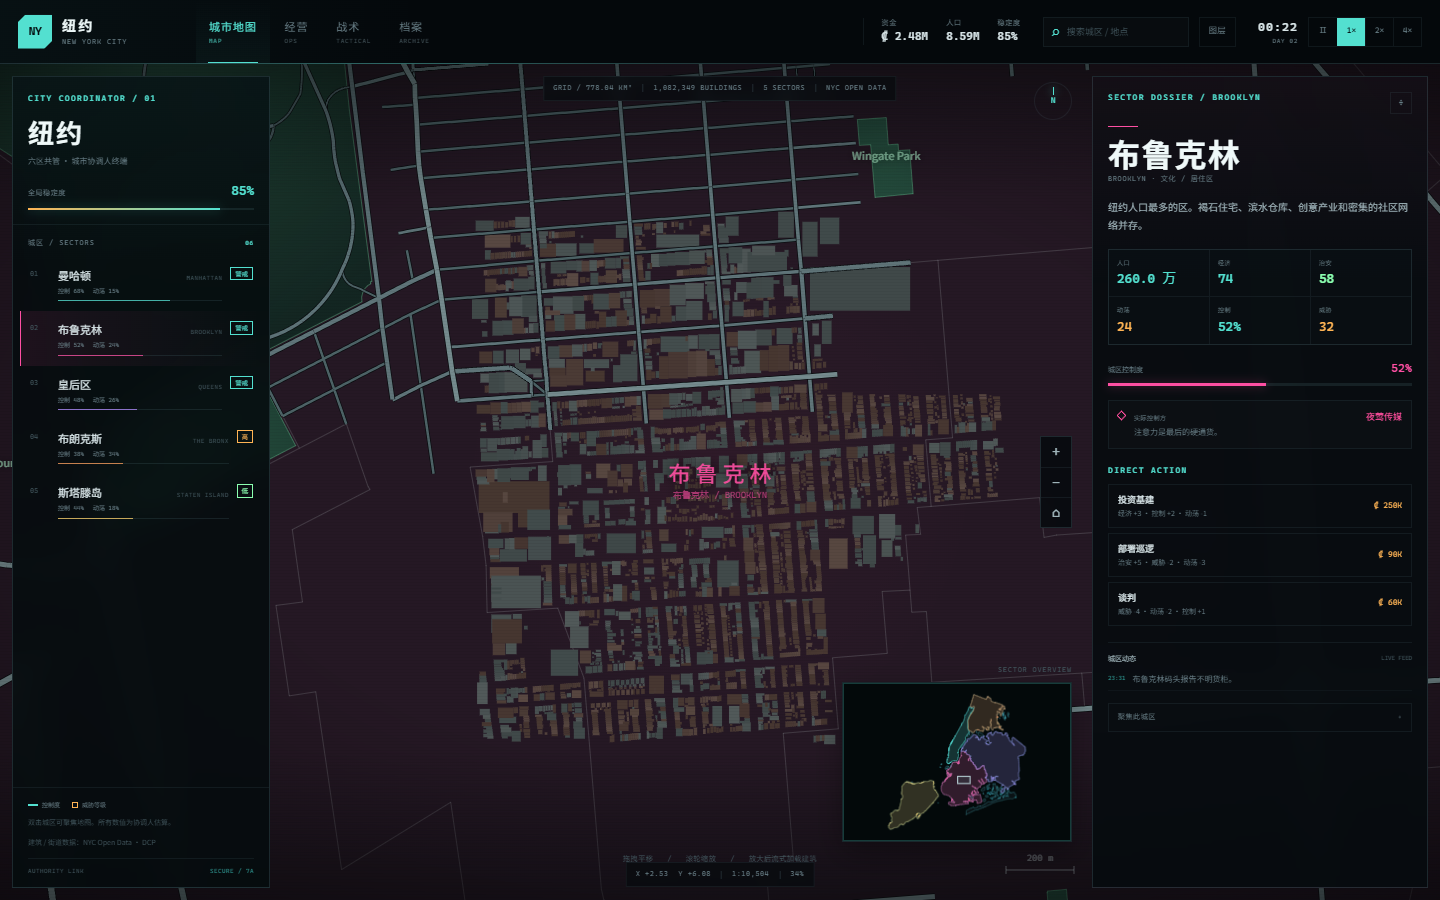
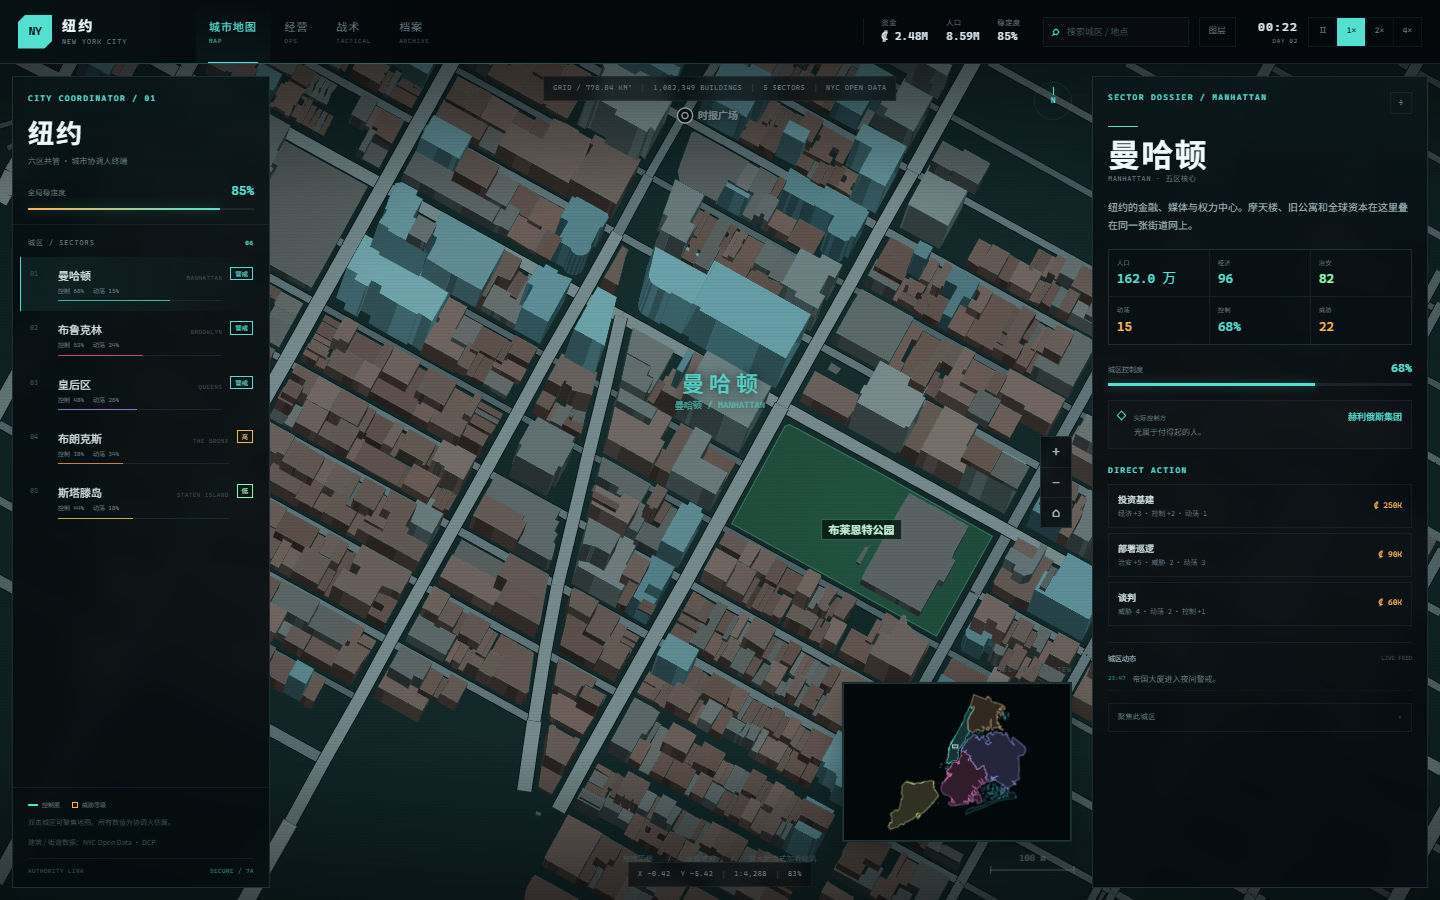
Upload park localization and perf source

diff --git a/src/map/renderer.js b/src/map/renderer.js
@@ -294,7 +294,7 @@ function drawRivers(ctx, camera, width, height, data) {
 }
 
 function drawCommunities(ctx, camera, width, height, data, scale, fast = false) {
-  if (fast || scale < 0.09 || !data.communities) return
+  if (fast || scale < 0.9 || !data.communities) return
   ctx.save()
   for (const community of data.communities) {
     ctx.beginPath()
@@ -324,11 +324,53 @@ function drawCommunities(ctx, camera, width, height, data, scale, fast = false) 
   ctx.restore()
 }
 
+const PARK_NAME_ZH = {
+  'Central Park': '中央公园', 'Bryant Park': '布莱恩特公园', 'Prospect Park': '展望公园',
+  'Wingate Park': '温盖特公园', 'Pelham Bay Park': '佩勒姆湾公园', 'Freshkills Park': '弗雷什基尔斯公园',
+  'Marine Park': '海洋公园', 'Bronx Park': '布朗克斯公园', 'Van Cortlandt Park': '范科特兰公园',
+  'Alley Pond Park': '巷塘公园', 'Ferry Point Park': '渡口角公园', 'Willowbrook Park': '威洛布鲁克公园',
+  'Silver Lake Park': '银湖公园', 'Franklin D. Roosevelt Boardwalk and Beach': '罗斯福海滨步道',
+  'Great Kills Park': '大基尔斯公园', 'Dyker Beach Park': '戴克海滩公园', 'Inwood Hill Park': '因伍德山公园',
+  'Coney Island Beach & Boardwalk': '康尼岛海滩与步道', 'Soundview Park': '桑德维尤公园',
+  'Clove Lakes Park': '克洛夫湖公园', 'Conference House Park': '会议大厦公园',
+  'Rockaway Beach and Boardwalk': '洛克威海滩与步道', 'Forest Park': '森林公园', 'Highland Park': '高地公园',
+  "Randall's Island Park": '兰德尔岛公园', 'Flushing Meadows Corona Park': '法拉盛草原可乐娜公园',
+  'Astoria Park': '阿斯托利亚公园', 'Battery Park': '炮台公园', 'Washington Square Park': '华盛顿广场公园',
+  'Tompkins Square Park': '汤普金斯广场公园', 'Madison Square Park': '麦迪逊广场公园',
+  'Union Square Park': '联合广场公园', 'Hudson River Park': '哈德逊河公园',
+  'Brooklyn Bridge Park': '布鲁克林大桥公园', 'Governors Island': '总督岛', 'Liberty Island': '自由岛',
+  'Ellis Island': '埃利斯岛', 'The High Line': '高线公园', 'Riverside Park': '河滨公园',
+  'Morningside Park': '晨边公园', 'St. Nicholas Park': '圣尼古拉斯公园', 'Marcus Garvey Park': '马库斯加维公园',
+  'Sara D. Roosevelt Park': '萨拉罗斯福公园', 'City Hall Park': '市政厅公园', 'Collect Pond Park': '收集池公园',
+  'Bowling Green': '鲍灵格林', 'Cadman Plaza Park': '卡德曼广场公园', 'Fort Greene Park': '格林堡公园',
+  'McCarren Park': '麦卡伦公园', 'McKinley Park': '麦金利公园', 'Sunset Park': '日落公园',
+  'Green-Wood Cemetery': '绿荫公墓', 'Calvary Cemetery': '各各他公墓', 'Holy Cross Cemetery': '圣十字公墓',
+  'Woodlawn Cemetery': '伍德劳恩公墓', 'Forest Hills Gardens': '森林小丘花园',
+}
+
+const PARK_WORD_ZH = [
+  ['Golf Course', '高尔夫球场'], ['Playground', '游乐场'], ['Boardwalk', '步道'], ['Cemetery', '公墓'],
+  ['Gardens', '花园'], ['Garden', '花园'], ['Triangle', '三角绿地'], ['Meadow', '草甸'], ['Fields', '运动场'],
+  ['Field', '运动场'], ['Beach', '海滩'], ['Plaza', '广场'], ['Square', '广场'], ['Parkway', '公园道'],
+  ['Park', '公园'], ['Green', '绿地'], ['Point', '角'], ['Island', '岛'], ['River', '河'], ['Lake', '湖'],
+  ['Pond', '池塘'], ['Woods', '林地'], ['Marsh', '湿地'],
+]
+
+function localizeParkName(name) {
+  if (!name) return '公园'
+  if (PARK_NAME_ZH[name]) return PARK_NAME_ZH[name]
+  let result = name
+  for (const [en, zh] of PARK_WORD_ZH) result = result.replaceAll(en, zh)
+  result = result.replace(/[A-Za-z]/g, '').replace(/[&,.'’]/g, '').replace(/\s+/g, ' ').trim()
+  if (!result) return '公园'
+  return result.replace(/公园公园/g, '公园')
+}
+
 function drawParks(ctx, camera, width, height, data, fast = false) {
   const scale = camera.scale
   for (const park of data.parks) {
     if (fast && (park.area || 0) < 50000) continue
-    if (scale < 0.5 && (park.area || 0) < 12000) continue
+    if (scale < 1.2 && (park.area || 0) < 12000) continue
     ctx.save()
     ctx.beginPath()
     tracePolygon(ctx, camera, width, height, park.poly)
@@ -445,17 +487,39 @@ function drawParks(ctx, camera, width, height, data, fast = false) {
       }
     }
 
-    if (scale > 0.16 && park.id !== 'reservoir') {
-      const p = worldToScreen(camera, width, height, park.centroid[0], park.centroid[1])
-      ctx.font = '500 11px "Noto Sans SC", "Microsoft YaHei", sans-serif'
-      ctx.textAlign = 'center'
-      ctx.fillStyle = 'rgba(168, 232, 196, 0.72)'
-      ctx.shadowColor = 'rgba(0, 0, 0, 0.8)'
-      ctx.shadowBlur = 8
-      ctx.fillText(park.name, p.x, p.y)
-    }
     ctx.restore()
   }
+}
+
+function drawParkLabels(ctx, camera, width, height, data, scale) {
+  if (scale < 0.32) return
+  const parks = []
+  for (const park of data.parks) {
+    if ((park.area || 0) < 3000) continue
+    const p = worldToScreen(camera, width, height, park.centroid[0], park.centroid[1])
+    if (p.x < 40 || p.x > width - 40 || p.y < 20 || p.y > height - 20) continue
+    parks.push({ park, p })
+  }
+  parks.sort((a, b) => (b.park.area || 0) - (a.park.area || 0))
+  ctx.save()
+  ctx.textAlign = 'center'
+  ctx.textBaseline = 'middle'
+  for (const { park, p } of parks.slice(0, 20)) {
+    const label = localizeParkName(park.name)
+    if (!label) continue
+    ctx.font = '600 11px "Noto Sans SC", "Microsoft YaHei", sans-serif'
+    const metrics = ctx.measureText(label)
+    const w = metrics.width + 14
+    const h = 20
+    ctx.fillStyle = 'rgba(4, 20, 14, 0.78)'
+    ctx.fillRect(p.x - w / 2, p.y - h / 2, w, h)
+    ctx.strokeStyle = 'rgba(120, 210, 160, 0.34)'
+    ctx.lineWidth = 0.8
+    ctx.strokeRect(p.x - w / 2, p.y - h / 2, w, h)
+    ctx.fillStyle = '#c8f2d8'
+    ctx.fillText(label, p.x, p.y)
+  }
+  ctx.restore()
 }
 
 
@@ -1002,14 +1066,14 @@ function drawBuildings(ctx, camera, width, height, data, scale, hoveredId, pass 
   const bounds = cameraBounds(camera, width, height)
   const buildings = precomputed || getVisibleBuildings(data, bounds)
   const detailed = scale > 0.34
-  const extruded = scale > 0.46
-  const veryDetailed = scale > 1.05
+  const extruded = scale > 1.1
+  const veryDetailed = scale > 1.45
   const ordered = buildings
   const districtColors = new Map(data.districts.map((district) => [district.id, district.color]))
 
   // Ground shadows. Keeping these in a separate pass makes the city read as a
   // collection of volumes instead of a flat colour field.
-  if (detailed && pass !== 'body' && scale > 0.55) {
+  if (detailed && pass !== 'body' && scale > 1.1) {
     ctx.save()
     for (const b of buildings) {
       if (b.height < 10) continue
@@ -1068,7 +1132,7 @@ function drawBuildings(ctx, camera, width, height, data, scale, hoveredId, pass 
     const accent = districtColors.get(b.district) || '#53e0d0'
 
     if (b.points) {
-      if (pass === 'shadows' || scale < 0.55 || (fast && scale < 0.75)) {
+      if (pass === 'shadows' || scale < 0.9 || fast) {
         const [minX, minY, maxX, maxY] = b.bbox
         const a = worldToScreen(camera, width, height, minX, minY)
         const c = worldToScreen(camera, width, height, maxX, maxY)
@@ -1682,7 +1746,7 @@ export function drawMap(ctx, data, camera, width, height, options = {}) {
   ctx.fillRect(0, 0, width, height)
 
   drawLand(ctx, camera, width, height, data)
-  if (options.grid !== false && scale > 0.5) {
+  if (options.grid !== false && scale > 1.6) {
     for (const district of data.districts) {
       ctx.save()
       ctx.beginPath()
@@ -1706,7 +1770,7 @@ export function drawMap(ctx, data, camera, width, height, options = {}) {
     if (options.districts !== false) drawDistrictOutlines(ctx, camera, width, height, data, options.selectedDistrict)
   } else {
     if (hasBlocks) drawBlockGround(ctx, camera, width, height, data)
-    if (scale < 0.55) {
+    if (scale < 0.9) {
       drawBuildings(ctx, camera, width, height, data, scale, options.hoveredBuilding, 'body', visibleBuildings, options.fast)
       drawRoads(ctx, camera, width, height, data, scale, options.fast)
     } else {
@@ -1719,6 +1783,7 @@ export function drawMap(ctx, data, camera, width, height, options = {}) {
     }
   }
 
+  drawParkLabels(ctx, camera, width, height, data, scale)
   drawRamps(ctx, camera, width, height, data, scale)
   drawExpressways(ctx, camera, width, height, data, scale)
   drawBridges(ctx, camera, width, height, data, scale)

diff --git a/src/map/MapCanvas.jsx b/src/map/MapCanvas.jsx
@@ -201,7 +201,7 @@ const MapCanvas = forwardRef(function MapCanvas(
     if (!wrap || !canvas || !mini) return
     const resize = () => {
       const rect = wrap.getBoundingClientRect()
-      const dpr = Math.min(window.devicePixelRatio || 1, 1.5)
+      const dpr = Math.min(window.devicePixelRatio || 1, 1.25)
       const width = Math.max(1, rect.width)
       const height = Math.max(1, rect.height)
       sizeRef.current = { width, height, dpr }
@@ -306,7 +306,7 @@ const MapCanvas = forwardRef(function MapCanvas(
           }
         }
         candidates.sort((a, b) => a.distance - b.distance)
-        for (const candidate of candidates.slice(0, 8)) {
+        for (const candidate of candidates.slice(0, 4)) {
           streamRef.current.loading.add(candidate.key)
           fetchTile(candidate.tx, candidate.ty, controller.signal)
             .then((tile) => {
@@ -339,7 +339,7 @@ const MapCanvas = forwardRef(function MapCanvas(
           }
         }
         candidates.sort((a, b) => a.distance - b.distance)
-        for (const candidate of candidates.slice(0, 12)) {
+        for (const candidate of candidates.slice(0, 6)) {
           streamRef.current.roadLoading.add(candidate.key)
           fetchRoadTile(candidate.tx, candidate.ty, controller.signal)
             .then((roads) => {
@@ -357,7 +357,7 @@ const MapCanvas = forwardRef(function MapCanvas(
       }
     }
 
-    const timer = window.setInterval(loadVisible, 400)
+    const timer = window.setInterval(loadVisible, 500)
     loadVisible()
     return () => {
       stopped = true

diff --git a/README.md b/README.md
@@ -109,7 +109,7 @@ src/
 - 道路瓦片合并后抽稀到 8m 节点
 - 渲染限制约 30fps，DPR 上限 1.5
 - 瓦片索引重建做 90ms 合并
-- 实测：中景约 90fps，拖拽约 70fps，近景约 75fps（1440×900 headless）
+- 实测：中景约 90fps，拖拽约 70fps，近景约 40–60fps（1440×900 headless，取决于加载瓦片数量）
 - 首屏只加载约 2.4MB 的静态底图
 - 建筑不进入首屏 bundle
 - 视口瓦片缓存，最多 140 个
